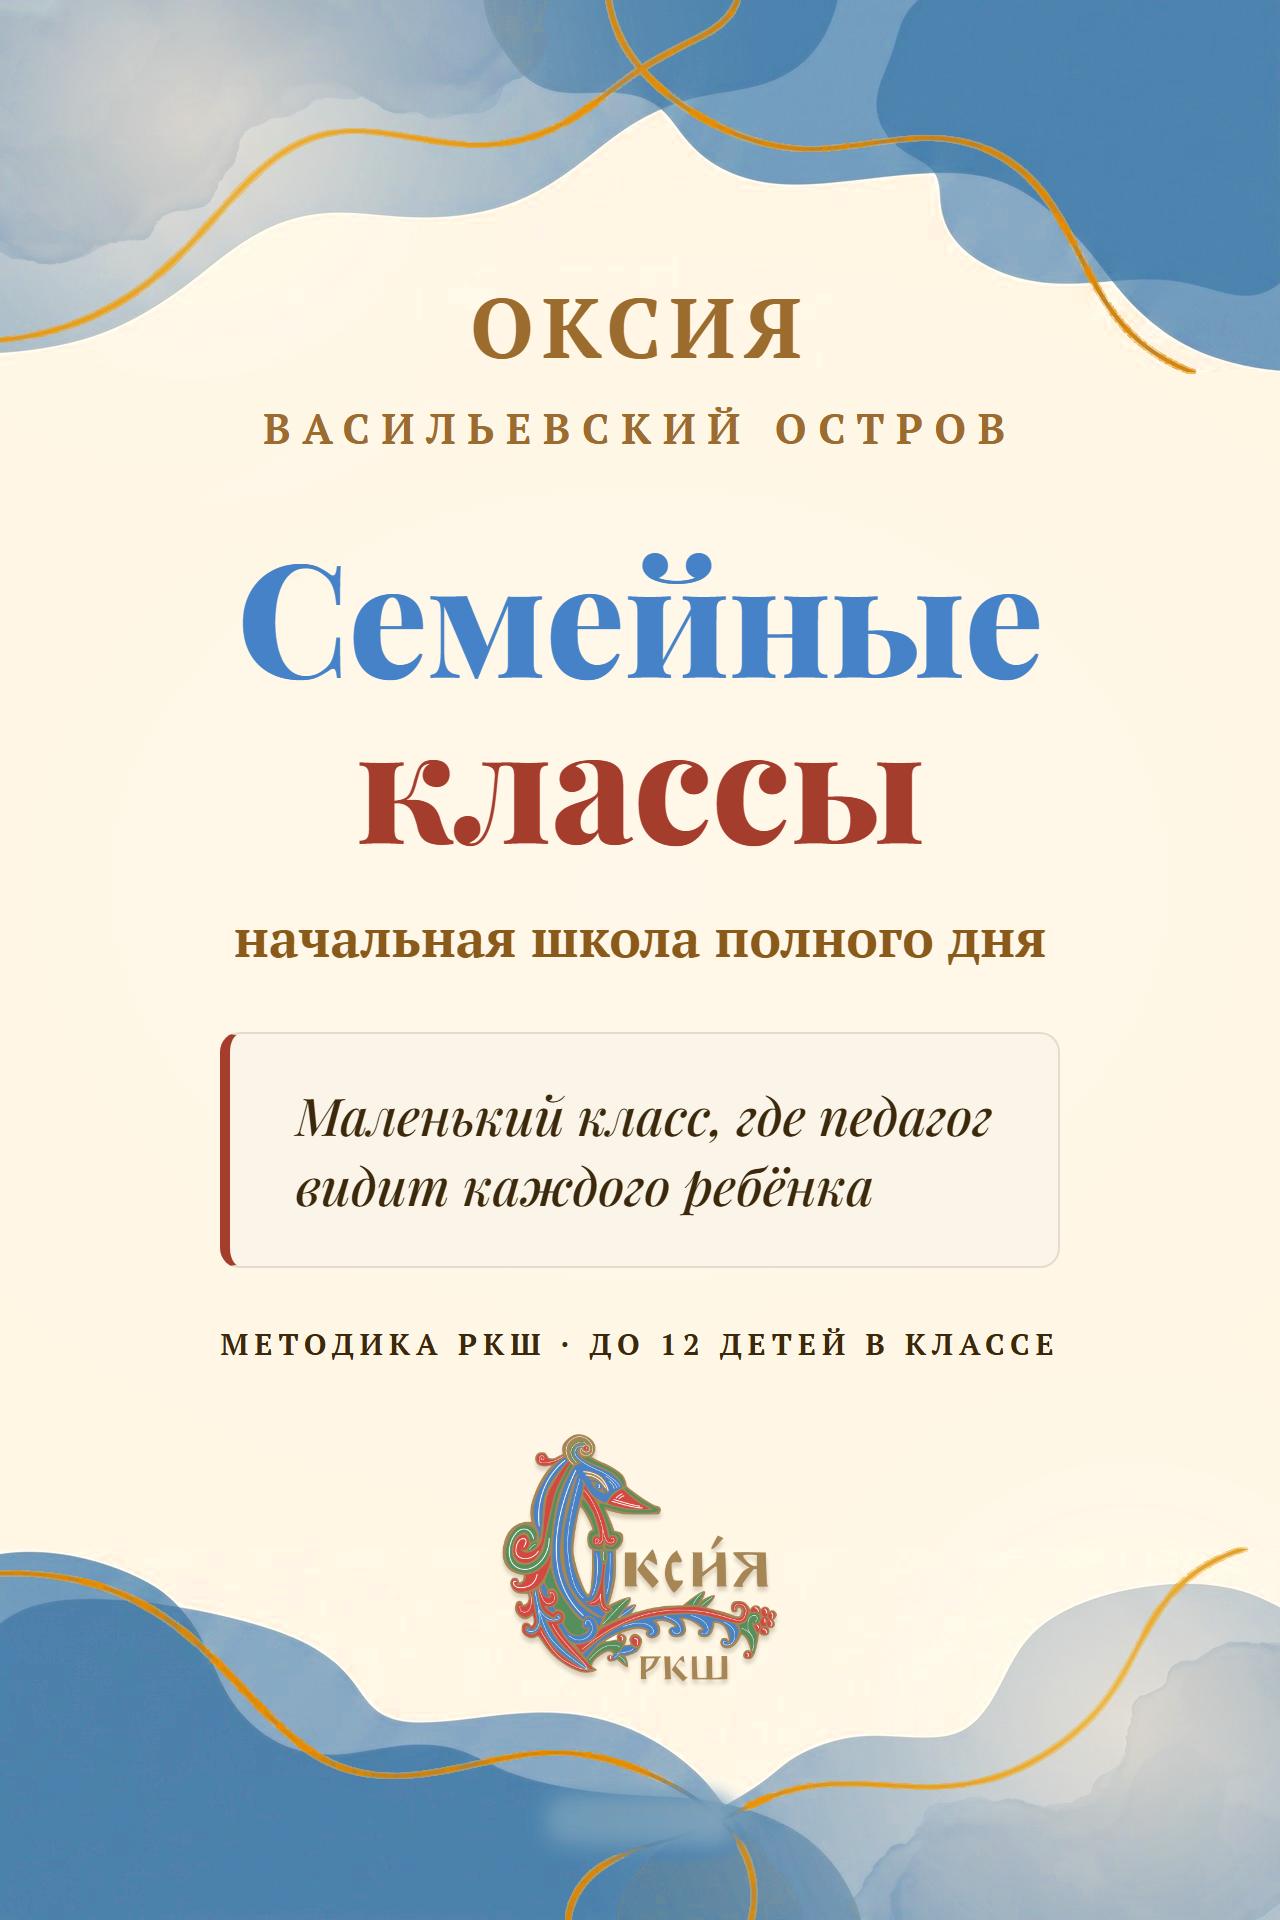
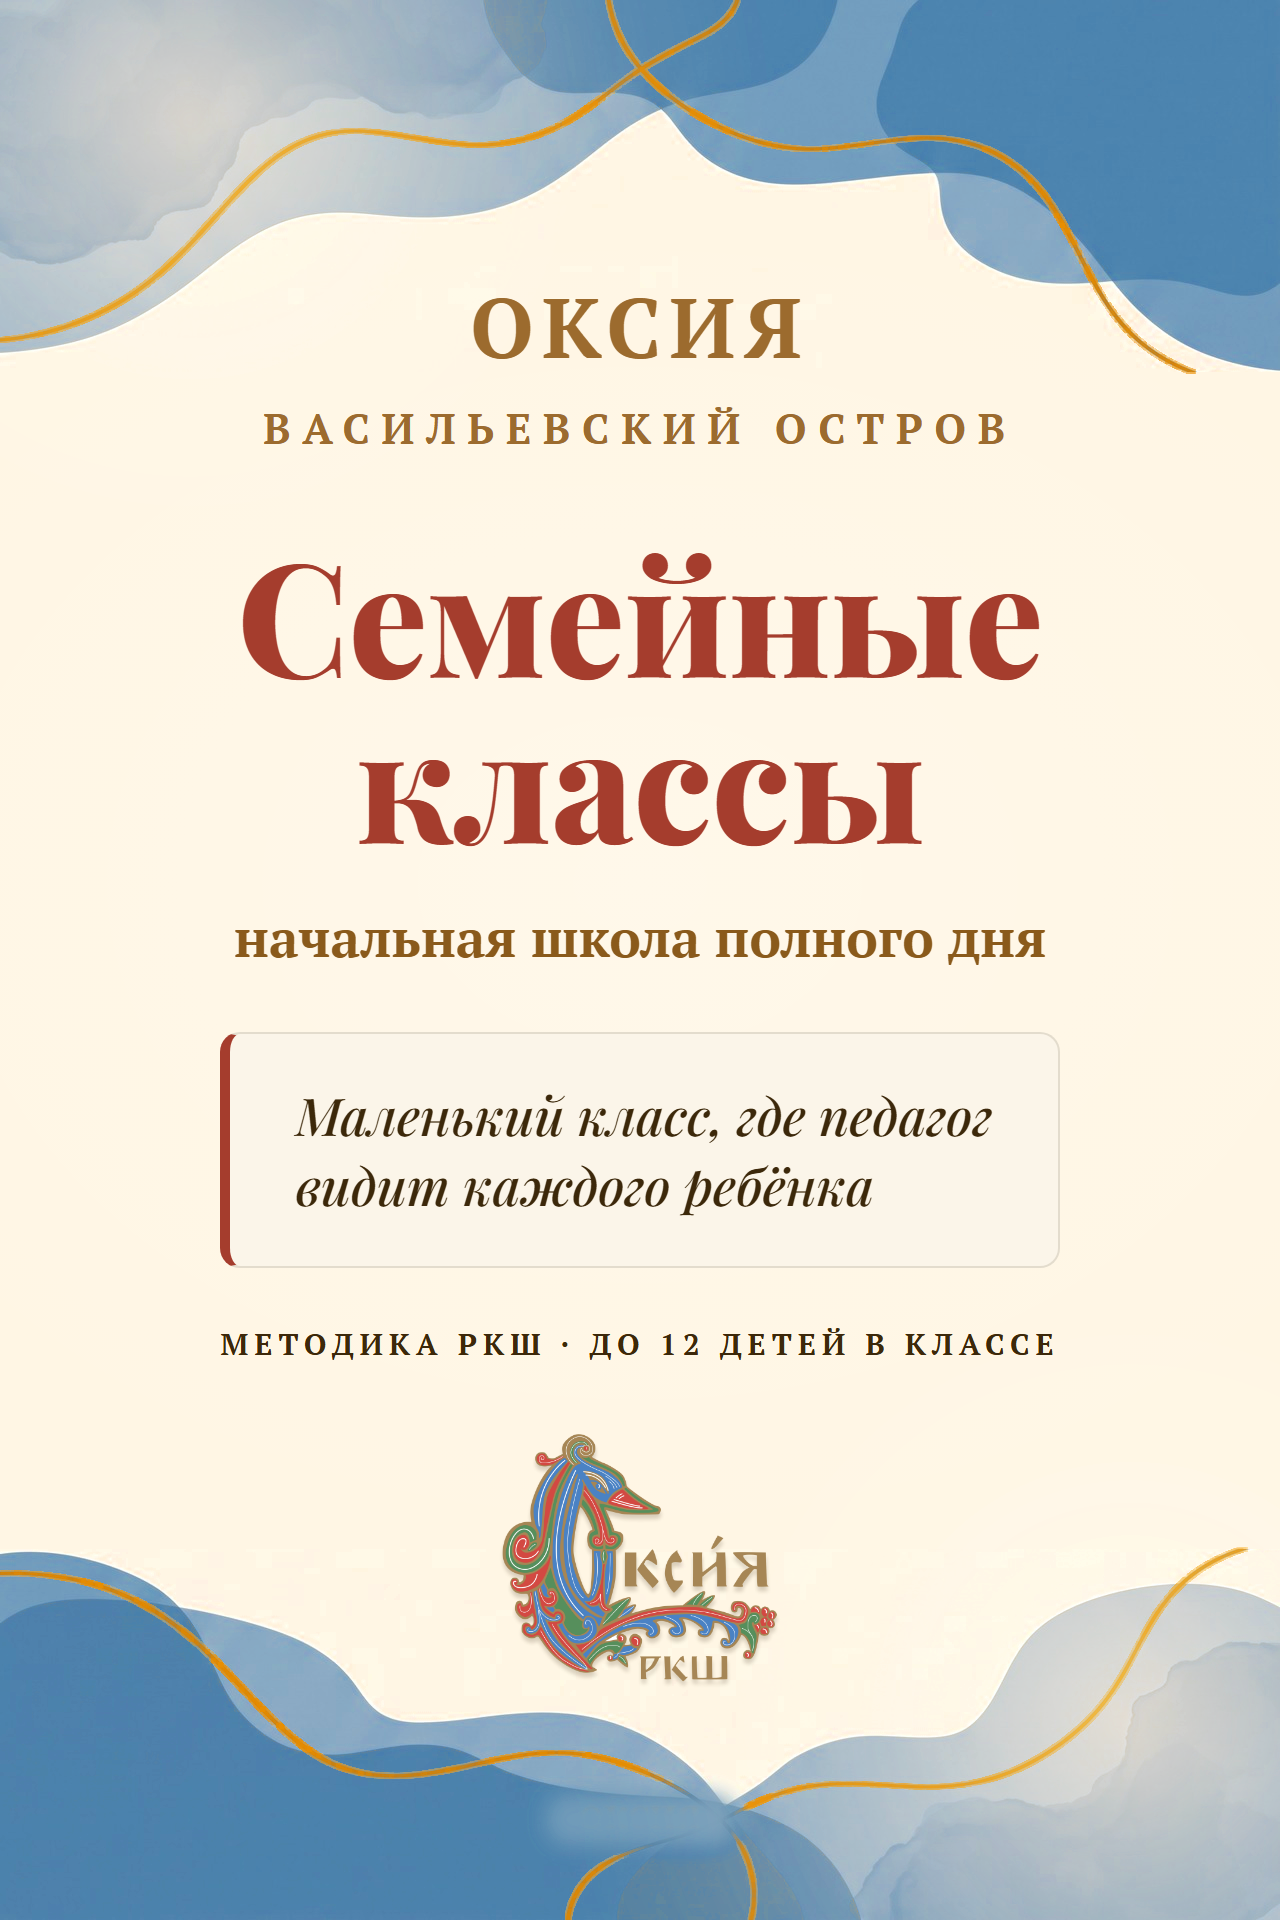
Заголовок истории «Семейные классы» — один цвет (бордо), не два
Правка заказчика: было синее слово + бордовое слово, теперь оба бордовые.

Changed region(s): [[0.1875, 0.2812, 0.8125, 0.375]]

diff --git a/card-preview/index.html b/card-preview/index.html
@@ -26,7 +26,7 @@
   <div class="card"><img src="card-sample-01.png?v=8" alt="Карточка товара"></div>
 
   <h2>История — Семейные классы</h2>
-  <div class="card"><img src="story-sample-01-bright.png?v=7" alt="История, обложка"></div>
+  <div class="card"><img src="story-sample-01-bright.png?v=8" alt="История, обложка"></div>
 </div>
 </body>
 </html>

diff --git a/story-preview/_build/story-sample-01-bright.html b/story-preview/_build/story-sample-01-bright.html
@@ -58,7 +58,7 @@
     font-size:158px; line-height:1.05; letter-spacing:-.005em;
     margin-top:40px;
   }
-  .disp .w1{ color:var(--blue); }
+  .disp .w1{ color:var(--red-muted); }
   .disp .w2{ color:var(--red-muted); }
   .sub{ margin-top:40px; font-size:53px; font-weight:700; color:var(--bronze); }
 
